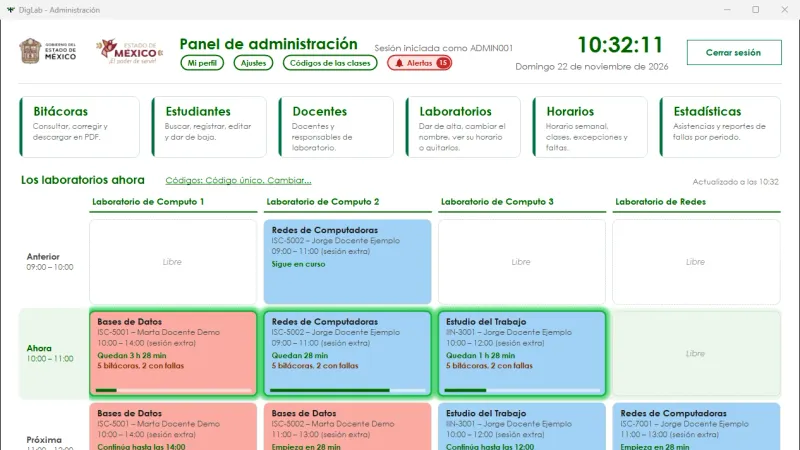
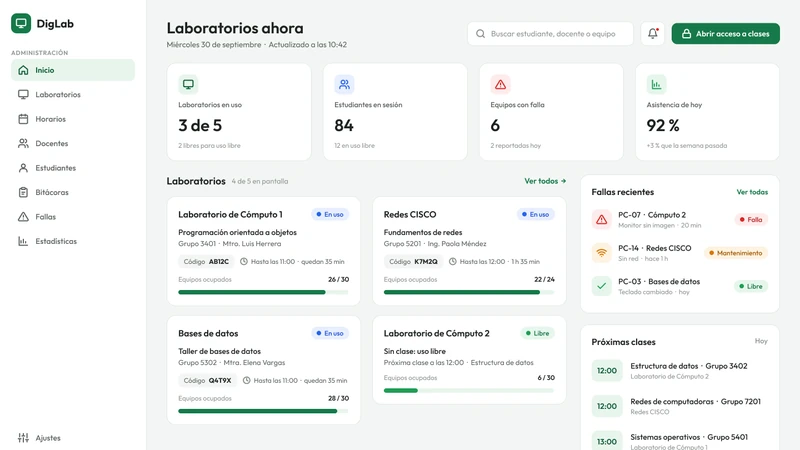
Perfil: rediseño de DigLab en Figma, ofimática y habilidades por área
- Caso de estudio de DigLab con la portada y el enlace al diseño en Figma.
- Descripción orientada a desarrollador Jr. / DBA y paquetería Office.
- APH marcado como privado (su enlace daba 404).
- Gráfica de lenguajes recalculada con los repos públicos actuales.
- Imagen de LoLPred solo con log loss y acierto.

diff --git a/README.md b/README.md
@@ -1,36 +1,55 @@
 ![AHV-Dev banner](assets/profile-banner.svg)
 
-Soy **Alexsandro Hernández Vargas (AHV-Dev)**, desarrollador de software. Construyo software que se usa todos los días: apps de escritorio, herramientas de datos y modelos predictivos, automatizaciones, bots y firmware para ESP32. Me gusta resolver el problema completo, desde la base de datos y la seguridad hasta la pantalla que usa la persona.
+Soy **Alexsandro Hernández Vargas (AHV-Dev)**, desarrollador de software y de bases de datos. Hago programas que se usan todos los días: sistemas de escritorio, bases de datos, herramientas de análisis y modelos predictivos, automatizaciones, bots y firmware para ESP32. Me gusta resolver el problema completo, desde el modelo de datos y la seguridad hasta la pantalla que usa la persona, y también la diseño: el rediseño de DigLab lo hice en Figma.
+
+**Abierto a trabajo** como desarrollador Jr., administrador de bases de datos (DBA) o soporte de sistemas.
 
 > Entender el pasado, para comprender el presente y construir el futuro.
 
 ## En corto
 
-- **Sistema institucional en uso:** DigLab registra el uso de los laboratorios de cómputo del TESCHI (roles, modo kiosco, modo sin conexión, instalador propio).
+- **Sistema institucional en uso:** DigLab registra el uso de los laboratorios de cómputo del TESCHI, con cuatro roles, modo kiosco, modo sin conexión e instalador propio.
+- **Bases de datos:** MySQL con migraciones versionadas y cuentas con el mínimo privilegio; PostgreSQL con Prisma; SQLite con EF Core, SQLx y Microsoft.Data.Sqlite; Parquet para análisis de datos.
+- **Diseño UI/UX:** rediseño completo de DigLab en Figma, con sistema de diseño propio (variables de color, componentes con variantes y 20 íconos).
 - **Modelos predictivos:** Elo, regresión logística, LightGBM y redes neuronales en PyTorch entrenadas en GPU, evaluados sin ver el futuro.
 - **Teoría de juegos:** solver push/fold con CFR+ y una biblioteca GTO de 40,365 flops resueltos.
 - **Escritorio:** C#/.NET (WPF y WinForms), Java/JavaFX y Tauri (Rust + Svelte).
-- **Backend y automatización:** TypeScript, Node.js, Prisma, PostgreSQL, FastAPI y Playwright.
-- **Seguridad aplicada:** PBKDF2, scrypt, X25519 + AES-256-GCM, cuentas de base de datos con el mínimo privilegio.
-- **Persistencia:** PostgreSQL con Prisma, MySQL con migraciones versionadas, SQLite (EF Core, SQLx y Microsoft.Data.Sqlite), Parquet y localStorage.
+- **Backend y automatización:** TypeScript, Node.js, Express, FastAPI y Playwright.
+- **Seguridad aplicada:** PBKDF2, scrypt y X25519 + AES-256-GCM.
+- **Calidad:** pruebas automatizadas (443 en APH, 115 en Account Controller y 96 en TradingLab).
 - **Hardware:** ESP32 en C++ con red WiFi propia, servidor web, relevadores y botones físicos.
+- **Ofimática:** paquetería Microsoft Office: Word, Excel, PowerPoint, Outlook, Access, OneNote y Teams.
+
+## Caso de estudio: rediseño de DigLab
+
+<a href="https://www.figma.com/design/bxuhltnX8oO6J6i97vIIv3"><img src="assets/diglab-portada.webp" alt="DigLab: rediseño UI/UX en Figma" width="100%"></a>
+
+DigLab es el sistema que lleva las bitácoras de los laboratorios de cómputo. Lo rediseñé desde cero en Figma para que cada rol vea primero lo que necesita:
+
+- **Administración:** los laboratorios en vivo, las fallas reportadas y las estadísticas de toda la escuela.
+- **Docentes:** la clase de ahora con su código, la asistencia del grupo y el estado de cada equipo.
+- **Estudiantes:** registran su bitácora en segundos con el código que les da su docente.
+
+El archivo incluye 4 pantallas, un sistema de diseño con 30 variables de color, 8 componentes con variantes y 20 íconos. Los nombres y datos son de ejemplo.
+
+**[Ver el diseño en Figma →](https://www.figma.com/design/bxuhltnX8oO6J6i97vIIv3)**
 
 ## Proyectos destacados
 
-Cada proyecto tiene capturas reales del programa funcionando (con datos de demostración) en su carpeta `docs/evidencia/`.
+Cada proyecto público tiene capturas reales del programa funcionando (con datos de demostración) en su carpeta `docs/evidencia/`.
 
 <table>
   <tr>
     <td width="50%" valign="top">
-      <img src="assets/proyectos/diglab.webp" alt="DigLab: panel de administración" width="100%"><br>
-      <strong>DigLab</strong> · <sub>código privado (institucional)</sub><br>
-      Bitácoras de los laboratorios de cómputo del TESCHI: horarios por laboratorio, cuatro roles, modo kiosco y modo sin conexión.<br>
-      <sub>C# · WinForms · MySQL · PowerShell</sub>
+      <a href="https://www.figma.com/design/bxuhltnX8oO6J6i97vIIv3"><img src="assets/proyectos/diglab.webp" alt="DigLab: pantalla de administración (rediseño)" width="100%"></a><br>
+      <a href="https://www.figma.com/design/bxuhltnX8oO6J6i97vIIv3"><strong>DigLab</strong></a> · <sub>código privado (institucional) · diseño en Figma</sub><br>
+      Bitácoras de los laboratorios de cómputo del TESCHI: horarios por laboratorio, cuatro roles, modo kiosco, modo sin conexión e instalador propio.<br>
+      <sub>C# · WinForms · MySQL · PowerShell · Figma</sub>
     </td>
     <td width="50%" valign="top">
-      <a href="https://github.com/Alexsandro215/APH"><img src="assets/proyectos/aph.webp" alt="APH: panel principal" width="100%"></a><br>
-      <a href="https://github.com/Alexsandro215/APH"><strong>APH · Analyzer Poker Hands</strong></a><br>
-      Analítica de historiales de póker con dashboards, perfiles de rivales, reportes PDF y solvers de teoría de juegos.<br>
+      <img src="assets/proyectos/aph.webp" alt="APH: panel principal" width="100%"><br>
+      <strong>APH · Analyzer Poker Hands</strong> · <sub>código privado</sub><br>
+      Analítica de historiales de póker para Windows: dashboards, perfiles de rivales, reportes PDF y solvers de teoría de juegos (CFR+ y GTO postflop).<br>
       <sub>C# · .NET 8 · WPF · SQLite · 443 pruebas</sub>
     </td>
   </tr>
@@ -38,13 +57,13 @@ Cada proyecto tiene capturas reales del programa funcionando (con datos de demos
     <td width="50%" valign="top">
       <img src="assets/proyectos/lolpred.webp" alt="LoLPred: red neuronal contra regresión logística" width="100%"><br>
       <strong>LoLPred</strong> · <sub>código privado</sub><br>
-      Probabilidad de victoria en partidos profesionales de esports. Redes neuronales entrenadas en una RTX 3060: 66.5 % de acierto en 53,793 partidas.<br>
-      <sub>Python · PyTorch · LightGBM · scikit-learn</sub>
+      Probabilidad de victoria en partidos profesionales de esports con Elo, regresión logística, LightGBM y redes neuronales: 66.5 % de acierto en 53,793 partidas, evaluado sin ver el futuro.<br>
+      <sub>Python · PyTorch · LightGBM · scikit-learn · pandas</sub>
     </td>
     <td width="50%" valign="top">
       <a href="https://github.com/Alexsandro215/ALL-PUBLISHER"><img src="assets/proyectos/all-publisher.webp" alt="All Publisher: vista previa en cuatro redes" width="100%"></a><br>
       <a href="https://github.com/Alexsandro215/ALL-PUBLISHER"><strong>All Publisher</strong></a><br>
-      Publica una vez en YouTube, TikTok, Instagram y Facebook: valida cada red, vista previa en el móvil y reintenta solo la red que falló.<br>
+      Publica una vez en YouTube, TikTok, Instagram y Facebook: valida cada red, muestra la vista previa en el móvil, programa la publicación y reintenta solo la red que falló.<br>
       <sub>TypeScript · React · Express · Playwright</sub>
     </td>
   </tr>
@@ -52,27 +71,27 @@ Cada proyecto tiene capturas reales del programa funcionando (con datos de demos
     <td width="50%" valign="top">
       <a href="https://github.com/Alexsandro215/RTA"><img src="assets/proyectos/rta.webp" alt="RTA: backtest con velas e indicadores" width="100%"></a><br>
       <a href="https://github.com/Alexsandro215/RTA"><strong>RTA · Real Time Analysis</strong></a><br>
-      Análisis de mercado cripto: indicadores, 12 estrategias, walk-forward y operación en papel en un panel web.<br>
+      Análisis de mercado cripto: datos OHLCV, indicadores, 12 estrategias, walk-forward y operación en papel en un panel web.<br>
       <sub>Python · FastAPI · ccxt · Plotly</sub>
     </td>
     <td width="50%" valign="top">
       <a href="https://github.com/Alexsandro215/TradingLab"><img src="assets/proyectos/tradinglab.webp" alt="TradingLab: backtest contra referencias" width="100%"></a><br>
       <a href="https://github.com/Alexsandro215/TradingLab"><strong>TradingLab</strong></a><br>
-      Laboratorio de estrategias sin dinero real: backtests con costos reales, walk-forward y comparación obligatoria contra no operar.<br>
-      <sub>Python · pandas · SQLite · 96 pruebas</sub>
+      Laboratorio de estrategias sin dinero real: backtests con costos reales, walk-forward y comparación obligatoria contra no operar y contra comprar y mantener.<br>
+      <sub>Python · pandas · SQLite · FastAPI · 96 pruebas</sub>
     </td>
   </tr>
   <tr>
     <td width="50%" valign="top">
       <a href="https://github.com/Alexsandro215/RFD"><img src="assets/proyectos/rfd.webp" alt="RFD: trámite de CURP" width="100%"></a><br>
       <a href="https://github.com/Alexsandro215/RFD"><strong>RFD · Rapid Fetch Desk</strong></a><br>
-      Expedientes de clientes y siete trámites web automatizados; cada PDF queda en el expediente, listo para imprimir.<br>
+      Expedientes de clientes: captura los datos una vez, automatiza siete trámites web y guarda cada PDF en su expediente, listo para imprimir.<br>
       <sub>Tauri 2 · Svelte 5 · Rust · SQLx</sub>
     </td>
     <td width="50%" valign="top">
       <a href="https://github.com/Alexsandro215/Account-Controller"><img src="assets/proyectos/account-controller.webp" alt="Account Controller: mini app de la bóveda" width="100%"></a><br>
       <a href="https://github.com/Alexsandro215/Account-Controller"><strong>Account Controller</strong></a><br>
-      Bóveda de contraseñas en Telegram con bot y mini app, cifrada con una contraseña maestra.<br>
+      Bóveda personal de contraseñas en Telegram: bot y mini app con cifrado protegido por una contraseña maestra.<br>
       <sub>TypeScript · Node.js · Prisma · PostgreSQL · 115 pruebas</sub>
     </td>
   </tr>
@@ -80,13 +99,13 @@ Cada proyecto tiene capturas reales del programa funcionando (con datos de demos
     <td width="50%" valign="top">
       <a href="https://github.com/Alexsandro215/TaskNotifierApp"><img src="assets/proyectos/task-notifier.webp" alt="Task Notifier: panel principal" width="100%"></a><br>
       <a href="https://github.com/Alexsandro215/TaskNotifierApp"><strong>Task Notifier App</strong></a><br>
-      Tareas, eventos y notas desde la bandeja de Windows, con avisos anticipados y modo oscuro.<br>
+      Tareas diarias, eventos y notas desde la bandeja de Windows, con recordatorios anticipados y modo oscuro.<br>
       <sub>Java · JavaFX · Gradle</sub>
     </td>
     <td width="50%" valign="top">
       <a href="https://github.com/Alexsandro215/esp32-water-doser"><img src="assets/proyectos/esp32-water-doser.webp" alt="ESP32 Water Doser: diagrama de conexiones" width="100%"></a><br>
       <a href="https://github.com/Alexsandro215/esp32-water-doser"><strong>ESP32 Water Doser</strong></a><br>
-      Firmware que llena un tinaco: red WiFi propia con página de configuración, relevador y botones físicos.<br>
+      Firmware que llena un tinaco: crea su propia red WiFi con una página para configurar tiempos y controla la bomba con relevador y botones físicos.<br>
       <sub>C++ · ESP32 · PlatformIO · Arduino</sub>
     </td>
   </tr>
@@ -106,44 +125,81 @@ Cada proyecto tiene capturas reales del programa funcionando (con datos de demos
   </tr>
 </table>
 
-## Stack técnico
+## Habilidades
 
+**Lenguajes**<br>
 ![CSharp](https://img.shields.io/badge/C%23-4cff20?style=for-the-badge&logo=csharp&logoColor=0d1117)
-![DotNet](https://img.shields.io/badge/.NET-512bd4?style=for-the-badge&logo=dotnet&logoColor=white)
 ![Python](https://img.shields.io/badge/Python-e8dec2?style=for-the-badge&logo=python&logoColor=0d1117)
-![PyTorch](https://img.shields.io/badge/PyTorch-ee4c2c?style=for-the-badge&logo=pytorch&logoColor=white)
-![scikit-learn](https://img.shields.io/badge/scikit--learn-f7931e?style=for-the-badge&logo=scikitlearn&logoColor=0d1117)
-![pandas](https://img.shields.io/badge/pandas-150458?style=for-the-badge&logo=pandas&logoColor=white)
-![FastAPI](https://img.shields.io/badge/FastAPI-0f7a55?style=for-the-badge&logo=fastapi&logoColor=white)
 ![TypeScript](https://img.shields.io/badge/TypeScript-58a6ff?style=for-the-badge&logo=typescript&logoColor=0d1117)
-![Node.js](https://img.shields.io/badge/Node.js-4cff20?style=for-the-badge&logo=node.js&logoColor=0d1117)
-![Express](https://img.shields.io/badge/Express-21262d?style=for-the-badge&logo=express&logoColor=f0f3f6)
-![Prisma](https://img.shields.io/badge/Prisma-0f7a55?style=for-the-badge&logo=prisma&logoColor=white)
-![PostgreSQL](https://img.shields.io/badge/PostgreSQL-58a6ff?style=for-the-badge&logo=postgresql&logoColor=white)
-![MySQL](https://img.shields.io/badge/MySQL-4479a1?style=for-the-badge&logo=mysql&logoColor=white)
-![SQLite](https://img.shields.io/badge/SQLite-e8dec2?style=for-the-badge&logo=sqlite&logoColor=0d1117)
 ![Java](https://img.shields.io/badge/Java-f2cc60?style=for-the-badge&logo=openjdk&logoColor=0d1117)
 ![Rust](https://img.shields.io/badge/Rust-21262d?style=for-the-badge&logo=rust&logoColor=f0f3f6)
+![CPP](https://img.shields.io/badge/C%2B%2B-39d353?style=for-the-badge&logo=cplusplus&logoColor=0d1117)
+![SQL](https://img.shields.io/badge/SQL-4479a1?style=for-the-badge&logoColor=white)
+
+**Bases de datos**<br>
+![MySQL](https://img.shields.io/badge/MySQL-4479a1?style=for-the-badge&logo=mysql&logoColor=white)
+![PostgreSQL](https://img.shields.io/badge/PostgreSQL-58a6ff?style=for-the-badge&logo=postgresql&logoColor=white)
+![SQLite](https://img.shields.io/badge/SQLite-e8dec2?style=for-the-badge&logo=sqlite&logoColor=0d1117)
+![Prisma](https://img.shields.io/badge/Prisma-0f7a55?style=for-the-badge&logo=prisma&logoColor=white)
+![EF Core](https://img.shields.io/badge/EF%20Core-512bd4?style=for-the-badge&logo=dotnet&logoColor=white)
+![SQLx](https://img.shields.io/badge/SQLx-39d353?style=for-the-badge&logo=rust&logoColor=0d1117)
+
+**Backend**<br>
+![DotNet](https://img.shields.io/badge/.NET-512bd4?style=for-the-badge&logo=dotnet&logoColor=white)
+![Node.js](https://img.shields.io/badge/Node.js-4cff20?style=for-the-badge&logo=node.js&logoColor=0d1117)
+![Express](https://img.shields.io/badge/Express-21262d?style=for-the-badge&logo=express&logoColor=f0f3f6)
+![FastAPI](https://img.shields.io/badge/FastAPI-0f7a55?style=for-the-badge&logo=fastapi&logoColor=white)
+
+**Escritorio**<br>
+![WPF](https://img.shields.io/badge/WPF-512bd4?style=for-the-badge&logo=dotnet&logoColor=white)
+![WinForms](https://img.shields.io/badge/WinForms-512bd4?style=for-the-badge&logo=dotnet&logoColor=white)
+![JavaFX](https://img.shields.io/badge/JavaFX-f2cc60?style=for-the-badge&logo=openjdk&logoColor=0d1117)
 ![Tauri](https://img.shields.io/badge/Tauri-24c8db?style=for-the-badge&logo=tauri&logoColor=0d1117)
+![Electron](https://img.shields.io/badge/Electron-9feaf9?style=for-the-badge&logo=electron&logoColor=0d1117)
+
+**Web y frontend**<br>
 ![React](https://img.shields.io/badge/React-58a6ff?style=for-the-badge&logo=react&logoColor=0d1117)
 ![Next.js](https://img.shields.io/badge/Next.js-21262d?style=for-the-badge&logo=nextdotjs&logoColor=f0f3f6)
 ![Svelte](https://img.shields.io/badge/Svelte-ffab70?style=for-the-badge&logo=svelte&logoColor=0d1117)
 ![Astro](https://img.shields.io/badge/Astro-ffab70?style=for-the-badge&logo=astro&logoColor=0d1117)
 ![Tailwind](https://img.shields.io/badge/Tailwind-58a6ff?style=for-the-badge&logo=tailwindcss&logoColor=0d1117)
-![Electron](https://img.shields.io/badge/Electron-9feaf9?style=for-the-badge&logo=electron&logoColor=0d1117)
+![Recharts](https://img.shields.io/badge/Recharts-4cff20?style=for-the-badge&logo=chartdotjs&logoColor=0d1117)
+
+**Datos e inteligencia artificial**<br>
+![pandas](https://img.shields.io/badge/pandas-150458?style=for-the-badge&logo=pandas&logoColor=white)
+![scikit-learn](https://img.shields.io/badge/scikit--learn-f7931e?style=for-the-badge&logo=scikitlearn&logoColor=0d1117)
+![PyTorch](https://img.shields.io/badge/PyTorch-ee4c2c?style=for-the-badge&logo=pytorch&logoColor=white)
+![LightGBM](https://img.shields.io/badge/LightGBM-21262d?style=for-the-badge&logoColor=f0f3f6)
+
+**Automatización y hardware**<br>
 ![Playwright](https://img.shields.io/badge/Playwright-0f7a55?style=for-the-badge&logo=playwright&logoColor=white)
 ![PyAutoGUI](https://img.shields.io/badge/PyAutoGUI-e8dec2?style=for-the-badge&logo=python&logoColor=0d1117)
-![SQLx](https://img.shields.io/badge/SQLx-39d353?style=for-the-badge&logo=rust&logoColor=0d1117)
-![Recharts](https://img.shields.io/badge/Recharts-4cff20?style=for-the-badge&logo=chartdotjs&logoColor=0d1117)
 ![ESP32](https://img.shields.io/badge/ESP32-21262d?style=for-the-badge&logo=espressif&logoColor=4cff20)
-![CPP](https://img.shields.io/badge/C%2B%2B-39d353?style=for-the-badge&logo=cplusplus&logoColor=0d1117)
+![Arduino](https://img.shields.io/badge/Arduino-00878f?style=for-the-badge&logo=arduino&logoColor=white)
+![PlatformIO](https://img.shields.io/badge/PlatformIO-f5822a?style=for-the-badge&logo=platformio&logoColor=0d1117)
+
+**Diseño y herramientas**<br>
+![Figma](https://img.shields.io/badge/Figma-a259ff?style=for-the-badge&logo=figma&logoColor=white)
+![Git](https://img.shields.io/badge/Git-f05032?style=for-the-badge&logo=git&logoColor=white)
+![GitHub](https://img.shields.io/badge/GitHub-21262d?style=for-the-badge&logo=github&logoColor=f0f3f6)
+![PowerShell](https://img.shields.io/badge/PowerShell-012456?style=for-the-badge&logoColor=white)
+
+**Ofimática (Microsoft Office)**<br>
+![Word](https://img.shields.io/badge/Word-2b579a?style=for-the-badge&logoColor=white)
+![Excel](https://img.shields.io/badge/Excel-217346?style=for-the-badge&logoColor=white)
+![PowerPoint](https://img.shields.io/badge/PowerPoint-b7472a?style=for-the-badge&logoColor=white)
+![Outlook](https://img.shields.io/badge/Outlook-0078d4?style=for-the-badge&logoColor=white)
+![Access](https://img.shields.io/badge/Access-a4373a?style=for-the-badge&logoColor=white)
+![OneNote](https://img.shields.io/badge/OneNote-7719aa?style=for-the-badge&logoColor=white)
+![Teams](https://img.shields.io/badge/Teams-6264a7?style=for-the-badge&logoColor=white)
 
 ## Cómo trabajo
 
 1. **Entender el problema:** hablo con quien lo va a usar y escribo qué debe pasar antes de escribir código.
-2. **Modelar la información:** esquemas versionados por migraciones y datos que sobreviven a errores, cortes de red y apagones.
-3. **Construir por fases:** entregas pequeñas, cada una probada antes de pasar a la siguiente.
-4. **Medir:** pruebas automatizadas, comparación contra referencias (por ejemplo, contra "no operar" o contra el mercado) y una bitácora de decisiones.
+2. **Diseñar la pantalla:** primero en Figma, con componentes reutilizables, para validar la idea antes de programarla.
+3. **Modelar la información:** esquemas versionados por migraciones y datos que sobreviven a errores, cortes de red y apagones.
+4. **Construir por fases:** entregas pequeñas, cada una probada antes de pasar a la siguiente.
+5. **Medir:** pruebas automatizadas, comparación contra referencias (por ejemplo, contra «no operar») y una bitácora de decisiones.
 
 ## Lenguajes
 
@@ -158,3 +214,4 @@ Cada proyecto tiene capturas reales del programa funcionando (con datos de demos
 ## Contacto
 
 [![GitHub](https://img.shields.io/badge/GitHub-Alexsandro215-0d1117?style=for-the-badge&logo=github&logoColor=4cff20)](https://github.com/Alexsandro215)
+[![Figma](https://img.shields.io/badge/Portafolio-DigLab%20en%20Figma-0d1117?style=for-the-badge&logo=figma&logoColor=a259ff)](https://www.figma.com/design/bxuhltnX8oO6J6i97vIIv3)
